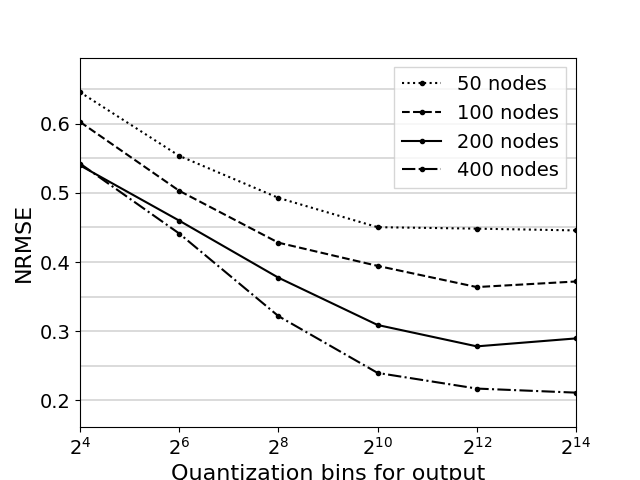
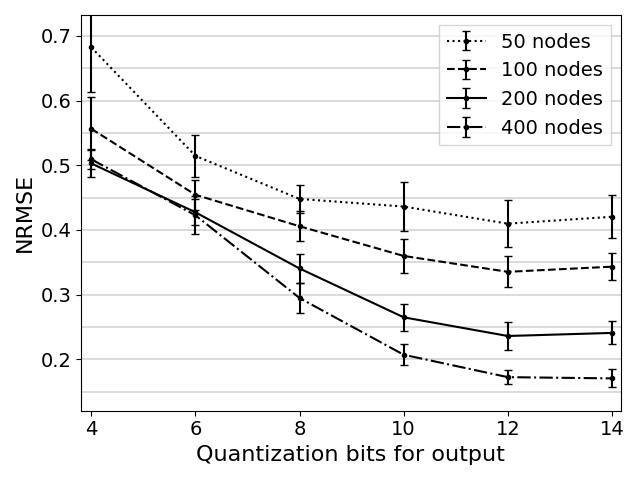
Check point.

diff --git a/py/plot.py b/py/plot.py
@@ -54,13 +54,18 @@ def plot_input_density(dataset):
         'w_in_density': density,
     }
 
-    nrmses = evaluate_esn_2d(dataset, params, runs_per_iteration=10)
+    nrmses, stds = evaluate_esn_2d(dataset, params, runs_per_iteration=50)
+    pickle.dump(nrmses, open('tmp/input_density_nrmse' + get_time(), 'wb'))
+    pickle.dump(stds, open('tmp/input_density_std' + get_time(), 'wb'))
+
+    # nrmses = pickle.load(open('tmp/input_density_nrmse', 'rb'))
+    # stds = pickle.load(open('tmp/input_density_std', 'rb'))
 
     labels = ['50 nodes', '100 nodes', '200 nodes']
     linestyles = ['dotted', 'dashed', 'solid']
     for i, _nrmses in enumerate(nrmses):
-        plt.plot(density, np.squeeze(_nrmses), color='black',
-                 marker='.', linestyle=linestyles[i], label=labels[i])
+        plt.errorbar(density, np.squeeze(_nrmses), yerr=stds[i], capsize=3.0,
+                     color='black', marker='.', linestyle=linestyles[i], label=labels[i])
 
     maxlim = np.max(nrmses) + 0.05
     minlim = np.min(nrmses) - 0.05
@@ -89,7 +94,7 @@ def plot_output_density(dataset):
         'w_out_density': density,
     }
 
-    nrmses = evaluate_esn_2d(dataset, params, runs_per_iteration=10)
+    nrmses, stds = evaluate_esn_2d(dataset, params, runs_per_iteration=10)
 
     labels = ['50 nodes', '100 nodes', '200 nodes']
     linestyles = ['dotted', 'dashed', 'solid']
@@ -120,14 +125,15 @@ def plot_output_nodes(dataset):
 
     nrmses = pickle.load(open('tmp/output_nodes', 'rb'))
 
-    # nrmses = evaluate_esn_2d(dataset, params, runs_per_iteration=10)
+    # nrmses, stds = evaluate_esn_2d(dataset, params, runs_per_iteration=10)
     # pickle.dump(nrmses, open('tmp/output_nodes-' + get_time(), 'wb'))
 
     labels = ['50 nodes', '100 nodes', '200 nodes']
     colors = ['red', 'green', 'blue']
+    markers = ['.', '+', '^']
     for i, _nrmses in enumerate(nrmses):
         x = density*hidden_nodes[i]
-        plt.scatter(x, np.squeeze(_nrmses), color=colors[i], marker='.', label=labels[i])
+        plt.scatter(x, np.squeeze(_nrmses), color='black', marker=markers[i], label=labels[i])
 
     plt.ylabel('NRMSE')
     plt.xlabel('Output nodes')
@@ -155,7 +161,7 @@ def plot_partial_visibility(dataset):
         'w_out_density': output_density
     }
 
-    nrmses = evaluate_esn_2d(dataset, params, runs_per_iteration=10)
+    nrmses, stds = evaluate_esn_2d(dataset, params, runs_per_iteration=10)
     pickle.dump(nrmses, open('tmp/' + get_time(), 'wb'))
 
     sns.heatmap(list(reversed(nrmses)), vmin=0.2, vmax=0.6, square=True)
@@ -190,7 +196,7 @@ def plot_input_scaling_input_distrib(dataset):
         'w_in_distrib': distrib,
     }
 
-    nrmses = evaluate_esn_2d(dataset, params, runs_per_iteration=10)
+    nrmses, stds = evaluate_esn_2d(dataset, params, runs_per_iteration=10)
 
     # We need to transpose, since we want the input scaling to be the x-axis,
     # but it is before w_in_density alphabetically.
@@ -229,7 +235,7 @@ def plot_w_res_density_w_res_distrib(dataset):
         'w_res_distrib': distrib,
     }
 
-    nrmses = evaluate_esn_2d(dataset, params, runs_per_iteration=10)
+    nrmses, stds = evaluate_esn_2d(dataset, params, runs_per_iteration=10)
 
     # We need to transpose, since we want the input scaling to be the x-axis,
     # but it is before w_in_density alphabetically.
@@ -287,7 +293,7 @@ def plot_input_noise_trained(dataset):
     u_train, y_train, u_test, y_test = dataset
     print(snr(u_train.var(), min(train_noise_std)**2))
 
-    nrmses = evaluate_esn_2d(dataset, params, runs_per_iteration=10)
+    nrmses, stds = evaluate_esn_2d(dataset, params, runs_per_iteration=10)
     nrmses = np.array(nrmses).T
 
     sns.heatmap(list(reversed(nrmses)), vmin=0.0, vmax=1.0, square=True)
@@ -322,31 +328,36 @@ def plot_adc_quantization(dataset):
         'hidden_nodes': hidden_nodes,
     }
 
-    # nrmses = evaluate_esn_2d(dataset, params, runs_per_iteration=10)
+    # nrmses, stds = evaluate_esn_2d(dataset, params, runs_per_iteration=20)
     # nrmses = np.array(nrmses).T
-    # pickle.dump(nrmses, open('tmp/adc_quantization' + get_time(), 'wb'))
+    # stds = np.array(stds).T
+    # pickle.dump(nrmses, open('tmp/adc_quantization_nrmse' + get_time(), 'wb'))
+    # pickle.dump(stds, open('tmp/adc_quantization_std' + get_time(), 'wb'))
 
-    nrmses = pickle.load(open('tmp/adc_quantization2', 'rb'))
+    nrmses = pickle.load(open('tmp/adc_quantization_nrmse', 'rb'))
+    stds = pickle.load(open('tmp/adc_quantization_std', 'rb'))
 
     labels = ['50 nodes', '100 nodes', '200 nodes', '400 nodes']
     linestyles = ['dotted', 'dashed', 'solid', 'dashdot']
     for i, _nrmses in enumerate(nrmses):
-        plt.plot(quantizations, np.squeeze(_nrmses), color='black',
-                 marker='.', linestyle=linestyles[i], label=labels[i])
+        plt.errorbar(quantizations, np.squeeze(_nrmses), yerr=stds[i], capsize=3.0,
+                     color='black', marker='.', linestyle=linestyles[i], label=labels[i])
 
     maxlim = np.max(nrmses) + 0.05
     minlim = np.min(nrmses) - 0.05
     plt.ylim(minlim, maxlim)
 
-    maxlim = 2**max_bits
-    minlim = 2**min_bits
+    maxlim = 2**max_bits + 2000.0
+    minlim = 2**min_bits - 2.0
     plt.xlim(minlim, maxlim)
     plt.xscale('log', basex=2)
+    plt.xticks(np.logspace(min_bits, max_bits, base=2, num=6), np.arange(min_bits, max_bits+2, 2))
 
     plt.ylabel('NRMSE')
-    plt.xlabel('Quantization bins for output')
+    plt.xlabel('Quantization bits for output')
     plt.legend(fancybox=False, loc='upper right', bbox_to_anchor=(1.0, 1.0))
-    plt.hlines(y = np.arange(0.0, 1.05, 0.05), xmin=0.0, xmax=2**max_bits, linewidth=0.2)
+    plt.hlines(y = np.arange(0.0, 1.05, 0.05), xmin=0.0, xmax=2**(max_bits+1), linewidth=0.2)
+    plt.tight_layout()
 
 
 @default_font_size

diff --git a/sections/results.tex b/sections/results.tex
@@ -1,16 +1,11 @@
 \subsection{Noise}
 
-% (TODO): Write about main motivation for doing this: what if we have a model
-% e.g. in software that we are now implementing physically: how does the model
-% then respond to the noise?
-
 The results are shown in Fig. \ref{input_noise_snr}, illustrating a performance
 degradation when the ratio of signal power to noise power drops below 20 dB. The
 reservoir performance drops more drastically below 10 dB, quickly turning
-insufficient for the prediction task. Similar performance degradation was seen
-in \cite{dambre_information_2012}, where the same SNR measure was used to
-evaluate the signal reconstruction capacity from the state of a dynamical
-system.
+insufficient for the prediction task. Similar performance degradation has been
+seen in previous work, using the same SNR measure to evaluate signal
+reconstruction capacity in a dynamical system \cite{dambre_information_2012}.
 
 \begin{figure}
   \centering
@@ -39,7 +34,7 @@ quantization bits. As discrete output states move beneath a quantization of 10
 bits, the performance quickly deteriorates. However, even with just 4 bits to
 discretely separate outputs, reservoirs are still able to replicate the input
 sequence to some degree. Furthermore, reservoirs with 400 hidden nodes and just
-64 output bits consistently provide the same performance as that of a reservoir
+64 output bins consistently provide the same performance as that of a reservoir
 with 50 hidden nodes and no output quantization.
 
 \begin{figure}[H]
@@ -47,8 +42,8 @@ with 50 hidden nodes and no output quantization.
   \includegraphics[width=3.3in]{img/adc_quantization.png}
   \caption{
     Performance effect of ADC quantization on four reservoirs of different
-sizes. $\tanh$ is used as activation function for the experiment, dividing its
-range of (-1, 1) into $2^n$ discrete output bins.
+sizes. The range (-1, 1) of the $\tanh$ activation function is divided into
+$2^n$ discrete output bins.
   }
   \label{adc_quantization}
 \end{figure}
@@ -73,12 +68,6 @@ highly linear part of $\tanh$ in the interval [-0.4, 0.4], with a few nodes
 outside this range. Essentially, this may in the worst cases account for halving
 the available output bins
 
-Our results demonstrate that the reservoir methodology provides an inherent
-resilience to output quantization, specifically so when using ADCs with 12-bits
-of resolution or higher. When designing physical RC systems, this may be applied
-in preliminary analysis of the resolution and representation of output
-activations.
-
 \subsection{Partially observable reservoir state}
 
 \begin{figure*}[htbp]
@@ -94,20 +83,15 @@ activations.
     \caption{}
   \end{subfigure}
   \caption{
-    These figures show the influence of reservoirs that are only partially
-visible on the performance for the NARMA10 task. The density is a measurement
-for the fraction of elements in the input and output matrices containing
-non-zero elements. The heat map was generated using a reservoir size of 200
-hidden nodes.
+    Influence of reservoirs that are only partially visible on the
+performance. The density is a measurement for the fraction of elements in the
+input and output matrices containing non-zero elements.
   }
   \label{partial_visibility}
 \end{figure*}
 
-When attaching input units to the network by weights, experience has shown that
-choosing $\mathbf{W}_{in}$ can be done freely, as long as
-$\rho(\mathbf{W}_{res}) < 1$ is satisfied \cite{jaeger_echo_2001}. Experimental
-results from adjusting the sparsity of $\mathbf{W}_{in}$ is shown in
-Fig. \ref{partial_visibility}a, in which all experiments were done with a
+Experimental results from adjusting the sparsity of $\mathbf{W}_{in}$ is shown
+in Fig. \ref{partial_visibility}a, in which all experiments were done with a
 uniform input weight distribution in the interval [-0.5, 0.5].
 
 Across all three reservoir sizes, we see a small increase in the signal
@@ -132,11 +116,10 @@ node reservoirs, there is a noticeable transition from a linear to an
 exponential NRMSE growth.
 
 We may understand these results to indicate that there is a critical point in
-the output density space where there the readout layer starts seeing enough of
-the reservoir dynamics to reconstruct the input NARMA10 signal. Additionally,
-when the output density exceeds this threshold, the performance will continue to
-grow linearly with the density, achieving the best performance at full
-connectivity.
+the output density space where the readout layer starts seeing enough of the
+reservoir dynamics to reconstruct the input NARMA10 signal. Additionally, when
+the output density exceeds this threshold, the performance will continue to grow
+linearly with the density, achieving the best performance at full connectivity.
 
 Another interesting result illustrated in Fig. \ref{partial_visibility}b is that
 increasing the reservoir size without increasing the amount of output nodes has
@@ -148,7 +131,7 @@ reveals this conclusively, as seen in Fig. \ref{output_nodes}.
   \centering
   \includegraphics[width=3.3in]{img/output_nodes.png}
   \caption{
-    Performance of reservoirs of three different sizes, parameterized by the
+    Performance of reservoirs of three different sizes, as a function of the
 amount of reservoir nodes connected to the readout layer. There is no clear
 distinction between the reservoir sizes, demonstrating that increasing reservoir
 sizes have no effect on performance if the output sampling remains the same.

diff --git a/sections/methods.tex b/sections/methods.tex
@@ -16,12 +16,15 @@ The first 200 states of each run are discarded to provide a washout of the
 initial reservoir state. For all experiments, the generated input was split into
 a training and test set, with $L_{train} = 2000$ and $L_{test} = 3000$. Reported
 performances are the mean across ten randomizations of each model
-representative.
+representative. A few experiments were run with more randomizations to achieve
+statistical significance, which is reported in each such case.
 
 All reservoirs were constructed with the parameters from this baseline,
 differing only in the parameters given for each specific experiment. The Python
 software library implementation is available online\footnote{Some GitHub
 repository.}.
+
+% (TODO): Some GitHub repository.
 
 \subsection{Noise}
 
@@ -45,19 +48,22 @@ dataset. The signal to noise ratio is measured in dB, and is calculated as $SNR
 To emulate the behavior of an ADC, we extend our ESN model to allow for
 quantization of reservoir output before it is passed to the readout layer. This
 quantization effectively divides the range of the nonlinear activation function,
-i.e. $\tanh$ with a range [-1, 1], of each hidden node into a discrete set of
+i.e. $\tanh$ with a range (-1, 1), of each hidden node into a discrete set of
 fixed output bins.
 
 We run experiments with four different reservoir sizes: 50, 100, 200 and 400
 hidden nodes, to see whether it is possible to compensate for lower resolutions
-by increasing the size of the reservoir.
+by increasing the size of the reservoir. For this experiment each model
+representative is run 20 times.
 
 \subsection{Partially visible reservoir state}
 
 We begin by experimenting with the sparsity of $\mathbf{W}_{in}$ and
 $\mathbf{W}_{out}$. In both cases, we now generate the connection matrices such
 that a wanted density, given as the fraction of connected nodes, is
-achieved. Input and output is adjusted separately.
+achieved. Input and output is adjusted separately. For the input density
+experiment each model representative is run 50 times to determine that there is
+a definitive trend.
 
 Additionally, we examine three different input weight distributions: uniform,
 Gaussian and fixed. All inputs are sampled as i.i.d streams with distributions

diff --git a/sections/limitations.tex b/sections/limitations.tex
@@ -38,7 +38,9 @@ recognition tasks saw the error rate consistently staying above 80\% with an SNR
 of 10dB. We further this work using the dynamics of ESNs, with the motivation of
 exploring their general robustness to noisy inputs. This provides insight into
 whether we can expect a similar behavior regardless of the reservoir medium that
-is used to implement rich, complex dynamics.
+is used to implement rich, complex dynamics. Furthermore, the general
+information capacity of internal reservoir nodes has been shown to degrade with
+noisier inputs \cite{dambre_information_2012}.
 
 In information theory a communication system can be evaluated in terms of its
 channel capacity, presenting an upper bound for the rate one is reliably able to
@@ -107,7 +109,10 @@ spin ice, recently deemed a highly promising substrate for material computation
 \cite{jensen_computation_2018}, contains nanomagnet elements that may be
 manipulated in many ways. A common approach is external magnetic fields, which
 proposes a choice between a global application to the entire assembly and to
-more specific, narrow areas.
+more specific, narrow areas. When attaching input units to the ESN reservoir by
+weights, experience has shown that choosing $\mathbf{W}_{in}$ can be done freely
+as long as $\rho(\mathbf{W}_{res}) < 1$ is satisfied \cite{jaeger_echo_2001},
+which is an enticing prospect in the context of physical reservoirs.
 
 %%% Local Variables:
 %%% mode: latex

diff --git a/py/gridsearch.py b/py/gridsearch.py
@@ -51,7 +51,8 @@ def evaluate_esn_2d(dataset, params, runs_per_iteration=1, test_snrs=None):
     p1 = sorted_params[0]
     p2 = sorted_params[1]
     n_p1, n_p2 = len(params[p1]), len(params[p2])
-    output = [[] for _ in range(n_p1)]
+    nrmse_output = [[] for _ in range(n_p1)]
+    std_output = [[] for _ in range(n_p1)]
     for i in range(n_p1):
         if test_snrs is not None:
             test_snrs.append([])
@@ -72,9 +73,10 @@ def evaluate_esn_2d(dataset, params, runs_per_iteration=1, test_snrs=None):
                 test_snrs_t.append(snr(u_test.var(), esn.v.var()))
                 v = esn.v
 
-        output[p1_i].append(np.mean(nrmses))
+        nrmse_output[p1_i].append(np.mean(nrmses))
+        std_output[p1_i].append(np.std(nrmses))
         if test_snrs is not None:
             test_snrs[p1_i].append(np.mean(test_snrs_t))
 
     # (TODO): Return a dict of different metrics that includes SNR.
-    return output
+    return nrmse_output, std_output

diff --git a/sections/conclusion.tex b/sections/conclusion.tex
@@ -13,7 +13,8 @@ Moreover, our experiments show that this resilience to white noise also extends
 to ADC quantization noise. By quantizing the output of the $\tanh$ activation
 function of hidden nodes in the ESNs, we have demonstrated that the general
 reconstruction capability of our reservoirs is unhindered when using an ADC with
-12 bits of resolution or more.
+12 bits of resolution or more. This may be applied in preliminary analysis of
+the resolution and representation of output activations.
 
 We have also investigated the importance of input and output connectivity, as to
 provide insights into reservoirs that are only partially visible to an
